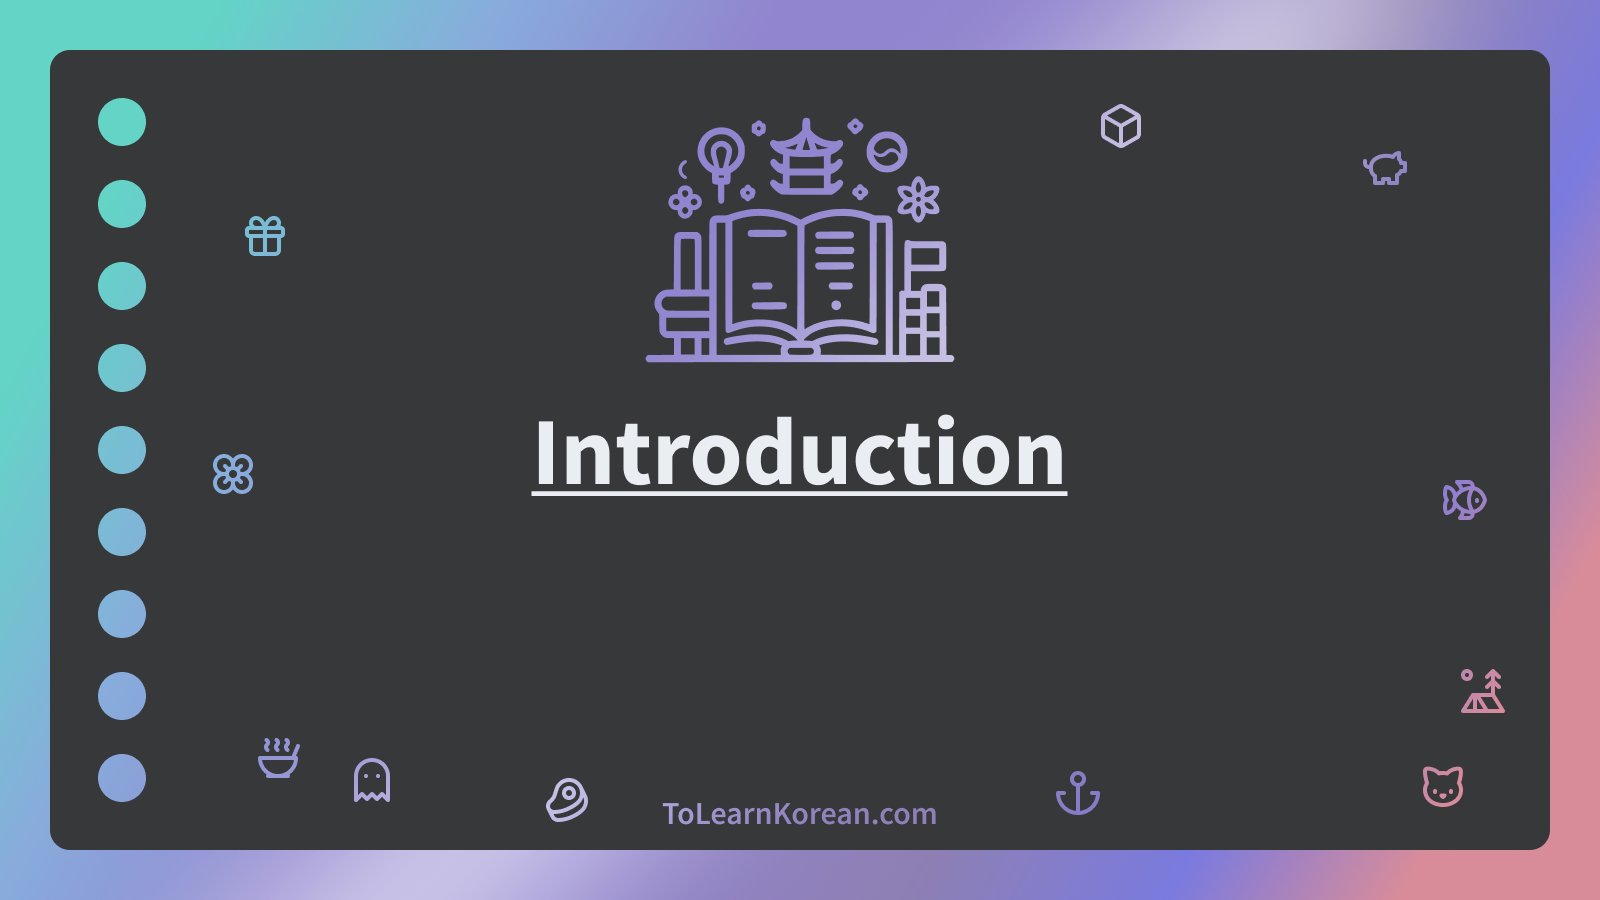
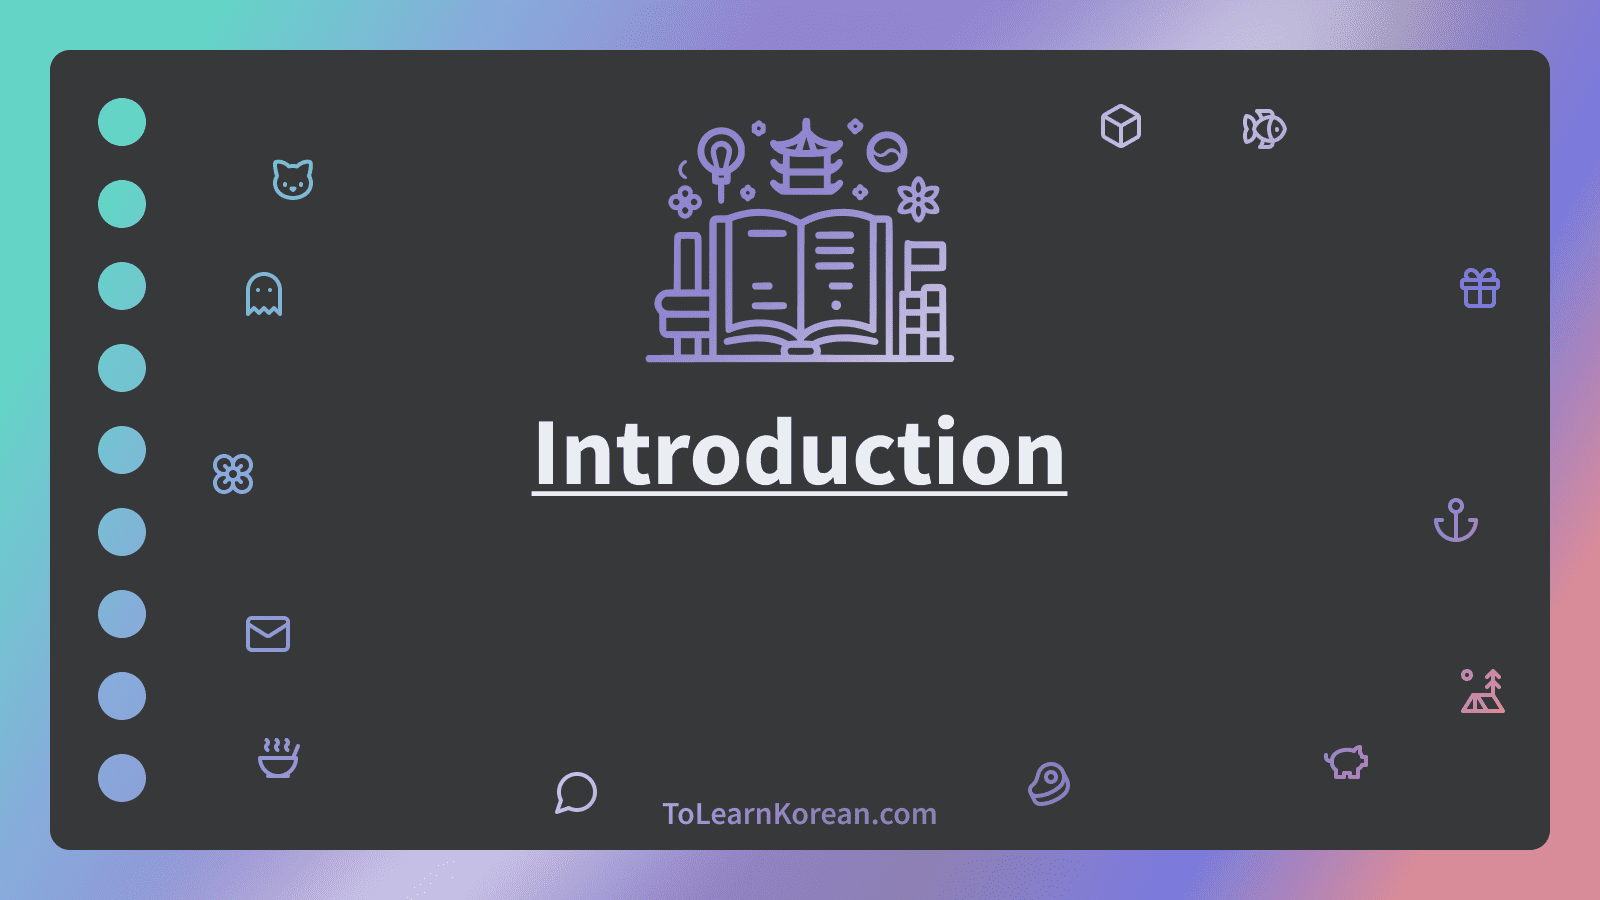
updated images and added chapter to unit 2

diff --git a/src/content/chapters/sentence-structure.md b/src/content/chapters/sentence-structure.md
@@ -1,0 +1,17 @@
+---
+title: Sentence Structure
+author: Bryan Hogan
+description: How sentences in Korean are structured. Subject > Object > Verb
+cover: ../../assets/images/covers/ToLearnKorean.com-Unit-2-Sentence-Structure.png
+coverAlt: Simple illustration with a gradient background, book icon, and various small icons surrounding the title which is placed prominently in the center.
+pubDate: 2024-05-24T06:46:39Z
+lastUpdate: 2024-05-24T06:46:39Z
+unit: 2
+sortOrder: 2
+tags: ["korean", "sentences", "introduction"]
+---
+
+In Korean the structure of the sentence is different from English. A sentence in Korean is usually built the following way:  
+Subject Object Verb
+
+Sentences in English follow this structure: Subject Verb Object
